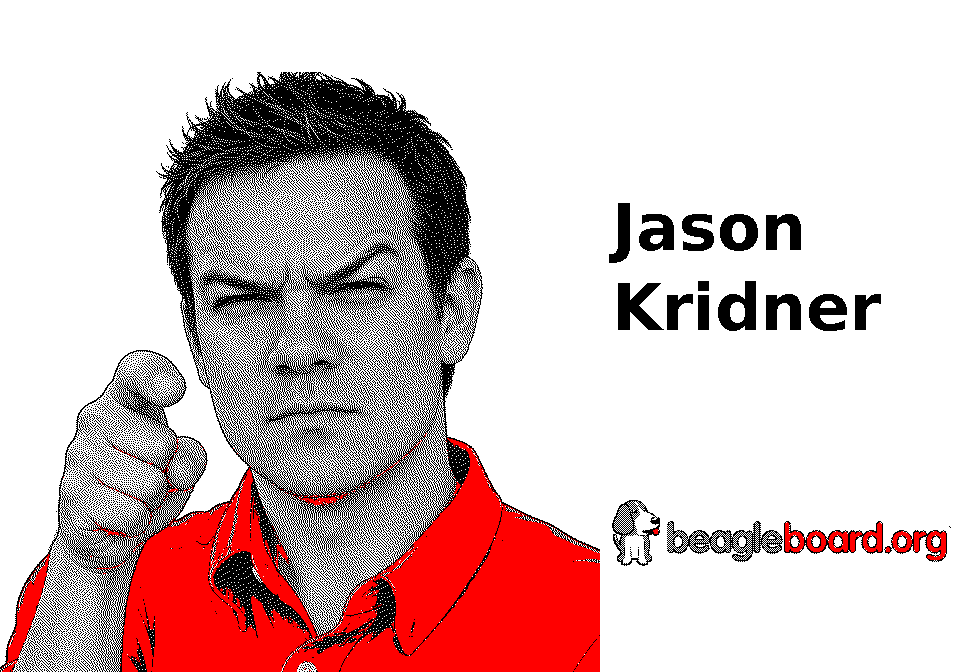
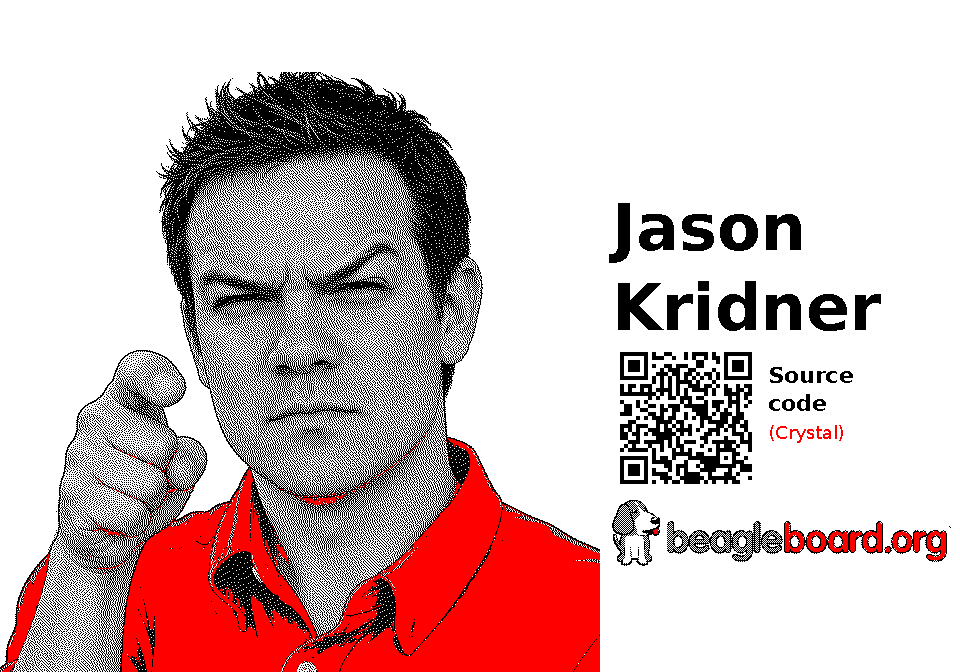
README with credits (Geoff McIntyre, Hackaday, yigitabi5444, Pervasive); QR code on the portrait
The portrait screen now carries a QR code linking to this branch, whose
README credits the upstream work.

Claude-Session: https://claude.ai/code/session_01TUH8KN12E3fnD8ikCLve2e

Changed region(s): [[0.625, 0.5, 0.9062, 0.7188]]

diff --git a/README.md b/README.md
@@ -1,0 +1,30 @@
+# Hack_Badge_2026 — native Crystal firmware (`crystal` branch)
+
+Firmware for the **Hackaday Supercon 2026 "Billboard Badge"** (ESP32-S3 with a
+9.7" 960×672 black/white/red e-paper), rewritten as native
+[Crystal](https://crystal-lang.org) code running on the ESP32-S3 under ESP-IDF.
+
+- `crystal/firmware/` — the ESP-IDF project: Crystal app (`src/*.cr`), e-paper
+  driver, PNG decoder, apps (Nametag, Portrait, Sketch, Life, Snake, DIAG) and a
+  USB-serial debug shell
+- `crystal/toolchain/` — the patch and scripts that let Crystal compile for Xtensa
+- `crystal/firmware/EPD_NOTES.md` — what we learned about driving the panel,
+  including fast rows-only partial updates
+- `crystal/tools/` — `badge-bridge.sh` (USB bridge + flasher) and `console.py`
+- The original MicroPython firmware is still at the repo root (`main.py`, `lib/`, `apps/`)
+
+## Credits
+
+- **Geoff McIntyre ([FacioErgoSum](https://github.com/FacioErgoSum/Hack_Badge_2026))** —
+  the badge firmware this fork started from, including the Etch-A-Sketch app,
+  its frame art, the AS5600 knob work and the e-paper speed-ups that the Crystal
+  Sketch is ported from.
+- **[Hackaday](https://github.com/Hack-a-Day/2026-Billboard_Badge)** — the badge
+  hardware, schematics, panel documentation and the `esp32s3-itc97` C++ driver our
+  e-paper driver is ported from.
+- **[yigitabi5444/supercon26-badge-os](https://github.com/yigitabi5444/supercon26-badge-os)** —
+  on-badge measurements (fast session open, RAM write pointer, power errata)
+  that made fast partial updates work.
+- **Pervasive Displays** — the iTC panel and its reference drivers.
+- Crystal port by **Jason Kridner ([BeagleBoard.org](https://www.beagleboard.org))**,
+  developed with Claude Code.
